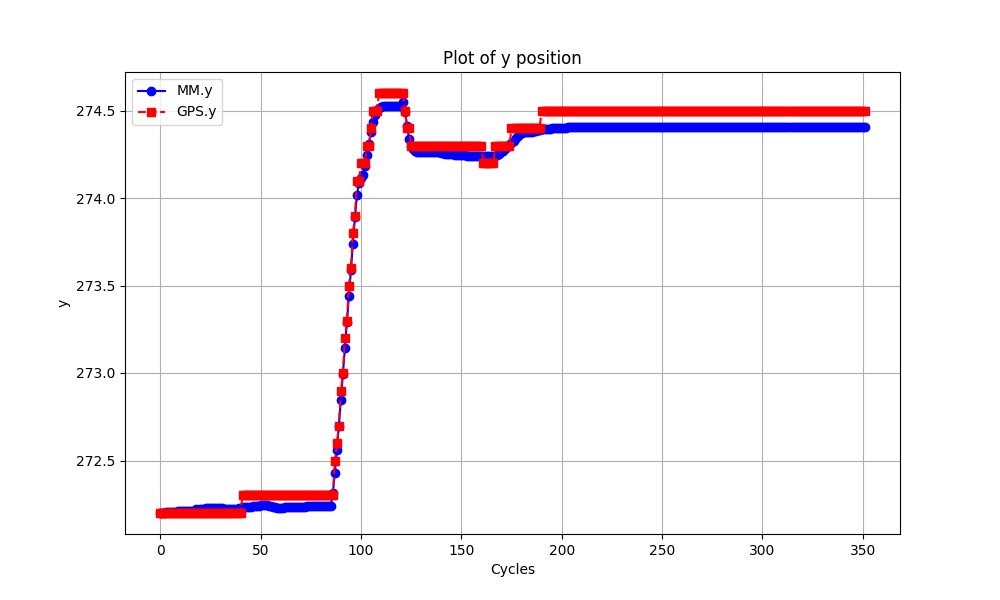
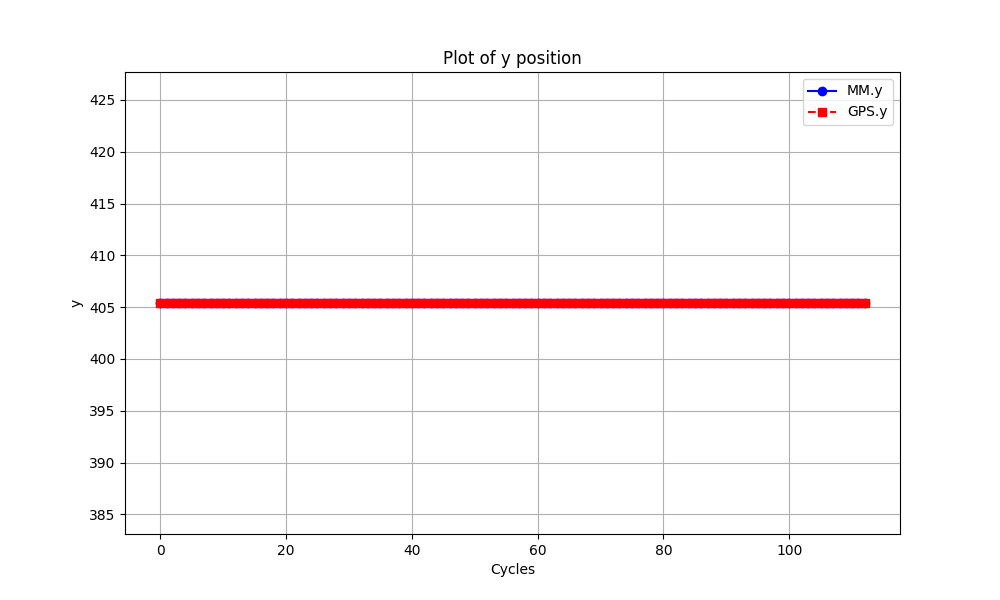
kalmn filter improvements

diff --git a/agent/C4/utils/KalmanFilter.py b/agent/C4/utils/KalmanFilter.py
@@ -1,113 +1,3 @@
-# import numpy as np
-
-# class AngleKalmanFilter:
-#     def __init__(self, initial_state, process_variance, measurement_variance):
-#         # Initial state (angle)
-#         self.state_estimate = initial_state  # Initial guess (initial compass uncertainty)
-#         self.estimate_covariance = 0.2  # Initial covariance (uncertainty in estimate)
-
-#         # Noise parameters
-#         self.process_variance = process_variance  # Noise from the motion model 
-#         self.measurement_variance = measurement_variance  # Noise from the compass sensor
-#         self.firstTime = True
-
-#     def predict(self, control_input):
-#         # Prediction step: Update state estimate based on control input (motion model)
-#         # control_input is the rotational velocity (change in angle)
-#         self.state_estimate += control_input
-#         self.estimate_covariance += self.process_variance  # Increase uncertainty due to process noise
-
-#     def update(self, measurement):
-#         # Update step: Incorporate sensor measurement
-#         kalman_gain = self.estimate_covariance / (
-#             self.estimate_covariance + self.measurement_variance
-#         )
-
-#         # Correct state estimate
-#         self.state_estimate = (
-#             self.state_estimate
-#             + kalman_gain * (measurement - self.state_estimate)
-#         )
-
-#         # Update estimate covariance
-#         self.estimate_covariance = (1 - kalman_gain) * self.estimate_covariance
-
-#     def get_estimate(self):
-#         # Normalize angle to [-180, 180]
-#         # normalized_angle = (self.state_estimate + 180) % 360 - 180
-#         # return normalized_angle
-#         return self.state_estimate
-
-# ----
-
-# import numpy as np
-
-# class AngleKalmanFilter:
-#     def __init__(self, initial_angle=0.0, initial_uncertainty=1.0):
-#         # State initialization
-#         self.x = np.array([[initial_angle]])  # State (angle in degrees)
-#         self.P = np.array([[initial_uncertainty]])  # State uncertainty
-        
-#         # Measurement noise (compass noise)
-#         self.R = np.array([[0.005555556]])  # Square of noise std for variance (in degrees)
-        
-#         # Process noise (model uncertainty)
-#         self.Q = np.array([[0.1]])  # Can be tuned based on movement model uncertainty (in degrees)
-        
-#         # Measurement matrix
-#         self.H = np.array([[1.0]])  # Direct measurement of angle
-        
-#         # State transition matrix
-#         self.F = np.array([[1.0]])  # Identity for angle
-
-#         self.firstTime = True
-        
-#     def _normalize_angle_degrees(self, angle):
-#         """Normalize angle to [-180, 180] degrees"""
-#         return (angle + 180) % 360 - 180
-        
-#     def predict(self, movement_angle_change=0.0):
-#         """
-#         Predict step using movement model
-#         Args:
-#             movement_angle_change: Change in angle from movement model (in degrees)
-#         """
-#         # State transition
-#         self.x = self.F @ self.x + movement_angle_change
-#         self.x[0,0] = self._normalize_angle_degrees(self.x[0,0])
-        
-#         # Covariance prediction
-#         self.P = self.F @ self.P @ self.F.T + self.Q
-        
-#     def update(self, compass_measurement):
-#         """
-#         Update step using compass measurement
-#         Args:
-#             compass_measurement: Angle measurement from compass (in degrees)
-#         """
-#         # Convert measurement to numpy array if it isn't already
-#         measurement = np.array([[compass_measurement]])
-        
-#         # Normalize angle difference
-#         innovation = measurement - self.H @ self.x
-#         innovation[0,0] = self._normalize_angle_degrees(innovation[0,0])
-        
-#         # Kalman gain
-#         S = self.H @ self.P @ self.H.T + self.R
-#         K = self.P @ self.H.T @ np.linalg.inv(S)
-        
-#         # State update
-#         self.x = self.x + K @ innovation
-#         self.x[0,0] = self._normalize_angle_degrees(self.x[0,0])
-        
-#         # Covariance update
-#         self.P = (np.eye(1) - K @ self.H) @ self.P
-        
-#     def get_estimate(self):
-#         """Return current estimate and uncertainty"""
-#         return float(self.x[0,0]), float(self.P[0,0])
-    
-
 # TODO: get an explanation for this kalman filter or do it as Lau did
 
 import numpy as np
@@ -115,7 +5,7 @@ import numpy as np
 class AngleKalmanFilter:
     def __init__(self):
         # State transition matrix (more conservative)
-        self.F = np.array([[1, 0.1],   # Reduce velocity impact
+        self.F = np.array([[1, 0.05],   # Reduce velocity impact
                            [0, 1]])  # Add damping to acceleration
         
         # Process noise covariance (increase to trust predictions less)
@@ -195,3 +85,56 @@ class AngleKalmanFilter:
 
 #     # Output the filtered state (angle and angular rate)
 #     print(f"Filtered Angle: {X[0, 0]:.2f}, Filtered Rate: {X[1, 0]:.2f}")
+
+
+# TODO: new implemntation
+# import numpy as np
+
+# class AngleKalmanFilter:
+#     def __init__(self):
+#         # State transition matrix (more conservative)
+#         self.F = np.array([[1, 0.1],   # Reduce velocity impact
+#                            [0, 1]])  # Add damping to acceleration
+        
+#         # Process noise covariance (increase to trust predictions less)
+#         self.Q = np.array([[0.01, 0],
+#                            [0, 0.02]])
+        
+#         # Measurement noise covariance (give more weight to measurements)
+#         self.R = np.array([[0.1]])
+        
+#         # Initial state uncertainty
+#         self.P = np.eye(2) * 500
+
+#         self.B = np.array([[0], [0]])
+
+#         self.x_pred = np.array([[0], [0]])  # Initial prediction
+#         self.x_updated = np.array([[0], [0]])  # Initial update
+
+#         self.firstTime = True
+
+#     def predict(self, x,input_left,input_right):
+#         # More conservative prediction
+#         x = np.array([[x], [0]])
+
+#         self.x_pred = self.F @ x + self.B @ np.array([[input_left],[input_right]])
+#         self.P = self.F @ self.P @ self.F.T + self.Q
+
+#     def update(self, z):
+#         # Measurement update with more measurement trust
+#         H = np.array([[1, 0]])  # Measurement model
+#         y = z - H @ self.x_pred
+#         S = H @ self.P @ H.T + self.R
+#         K = self.P @ H.T @ np.linalg.inv(S)
+#         self.x_updated = self.x_pred + K @ y
+#         self.P = (np.eye(len(self.x_pred)) - K @ H) @ self.P
+    
+#     def get_estimate(self):
+#         return self.x_updated,self.x_pred
+    
+#     # function to reset the filter
+#     def reset(self):
+#         self.x_pred = np.array([[0], [0]])  # Initial prediction
+#         self.x_updated = np.array([[0], [0]])  # Initial update
+#         self.P = np.eye(2) * 500
+#         self.firstTime = True

diff --git a/agent/C4/robot.py b/agent/C4/robot.py
@@ -189,8 +189,8 @@ class Robot(CRobLinkAngs):
                 # TODO: might need to reset either MM or KF (i think it is KF)
 
                 print("Terminei a recalibração")
-                self.robot.switch_to_moving()
-                #self.robot.switch_to_steering()
+                #self.robot.switch_to_moving()
+                self.robot.switch_to_steering()
                 self.robot.recalibration_complete = True
                 continue
 
@@ -324,12 +324,15 @@ class Robot(CRobLinkAngs):
     
     def steering(self):
         if self.robot.previous_direction == self.robot.current_direction == self.robot.direction_setpoint or \
-            (abs(self.robot.previous_direction - self.robot.current_direction) <= 3 and abs(self.robot.direction_setpoint - self.robot.current_direction) <= 1):
-            #abs(self.robot.current_direction - self.robot.previous_direction) <= 0:
+            (
+                abs(self.robot.previous_direction - self.robot.current_direction) <= 3 and \
+                abs(self.robot.direction_setpoint - self.robot.current_direction) <= 1
+            ):
+
             self.robot.movement_model.input_signal_left = 0
             self.robot.movement_model.input_signal_right  = 0
              
-            self.driveMotors(0, 0) #if self.robot.recalibration_complete == False else self.driveMotors(-0.15, -0.15) # Stop motors
+            self.driveMotors(0, 0) # Stop motors
             return False
 
         steering_correction = self.steering_pd_controller.compute_angle(self.robot.current_direction, self.robot.direction_setpoint)
@@ -345,16 +348,17 @@ class Robot(CRobLinkAngs):
         print(f"Current Position: {self.robot.current_position}")
         print(f"Position Setpoint: {self.robot.position_setpoint}")
         
-
-
-
-        #if self.robot.previous_position == self.robot.current_position == self.robot.position_setpoint or \
-
-        if (
-                abs(self.robot.position_setpoint[0] - self.robot.current_position[0]) < 0.2 and \
-                abs(self.robot.position_setpoint[1] - self.robot.current_position[1]) < 0.2 and \
-                Cell.inside_cell(self.robot.current_position, self.robot.cell_setpoint) 
-            ):
+        if self.robot.previous_position == self.robot.current_position == self.robot.position_setpoint or \
+        (
+            abs(self.robot.previous_position[0] - self.robot.current_position[0]) < 0.1 and \
+            abs(self.robot.previous_position[1] - self.robot.current_position[1]) < 0.1 and \
+            (
+                (closest_direction(self.robot.current_direction) in (NORTH, SOUTH) and \
+                abs(self.robot.current_position[1] - self.robot.position_setpoint[1]) < 0.1) or \
+                (closest_direction(self.robot.current_direction) in (WEST, EAST) and \
+                abs(self.robot.current_position[0] - self.robot.position_setpoint[0]) < 0.1)
+            )
+        ):
 
             self.robot.movement_model.input_signal_left = 0
             self.robot.movement_model.input_signal_right = 0
@@ -376,8 +380,23 @@ class Robot(CRobLinkAngs):
         if invert_power:
             motor_power = -motor_power # Reverse motor power if robot is facing SOUTH or WEST
 
+        # current_angle = self.robot.current_direction
+        # if current_angle < 0:
+        #     current_angle = 360 + current_angle
+        
+        # diff_angle = abs(current_angle - self.robot.direction_setpoint)
+        
+        # if abs(diff_angle) > 3:
+        #     angle_correction = self.angle_pd_controller.compute(current_angle, self.robot.direction_setpoint)
+        #     self.robot.movement_model.input_signal_left = motor_power - angle_correction
+        #     self.robot.movement_model.input_signal_right = motor_power + angle_correction
+        # else:
+        #     self.robot.movement_model.input_signal_left = motor_power
+        #     self.robot.movement_model.input_signal_right = motor_power
+
         self.robot.movement_model.input_signal_left = motor_power
         self.robot.movement_model.input_signal_right = motor_power
+
         self.driveMotors(motor_power, motor_power)    
         #print(f"Throttle Power: ({motor_power}, {motor_power})")
     

diff --git a/agent/C4/utils/movement.py b/agent/C4/utils/movement.py
@@ -119,20 +119,17 @@ class MovementModel:
             self.robot_state.current_direction, rotational_vel
         )
 
-        # if compass < 0:
-        #     compass = 360 + compass
-        
 
 
         if not self.angle_kalman_filter.firstTime:
-            if compass_movement_model < -160:
+            if compass_movement_model < -170:
                 compass_movement_model = compass_movement_model + 360
 
             self.angle_kalman_filter.predict(compass_movement_model)
         else:
             self.angle_kalman_filter.firstTime = False
 
-        if compass < -160:
+        if compass < -170:
                 compass = compass + 360
                 
         self.angle_kalman_filter.update(compass)

diff --git a/agent/C4/constants.py b/agent/C4/constants.py
@@ -13,7 +13,7 @@ MOVE_SOUTH = (0, -2)
 
 SENSOR_THRESHOLD = 1.0 # Wall Detection
 
-CENTER_SENSOR_SETPOINT = 5 # (1/0.2)
+CENTER_SENSOR_SETPOINT = 10 # (1/0.2)
 
 # Velocity limits
 MAX_POW = 0.15
@@ -31,7 +31,7 @@ KPS = 0.02
 KDS = 0.00003 
 
 # Recalibration PD Controller Values
-KPR = 0.025 
+KPR = 0.035
 KDR = 0 
 
 # Maze Size
